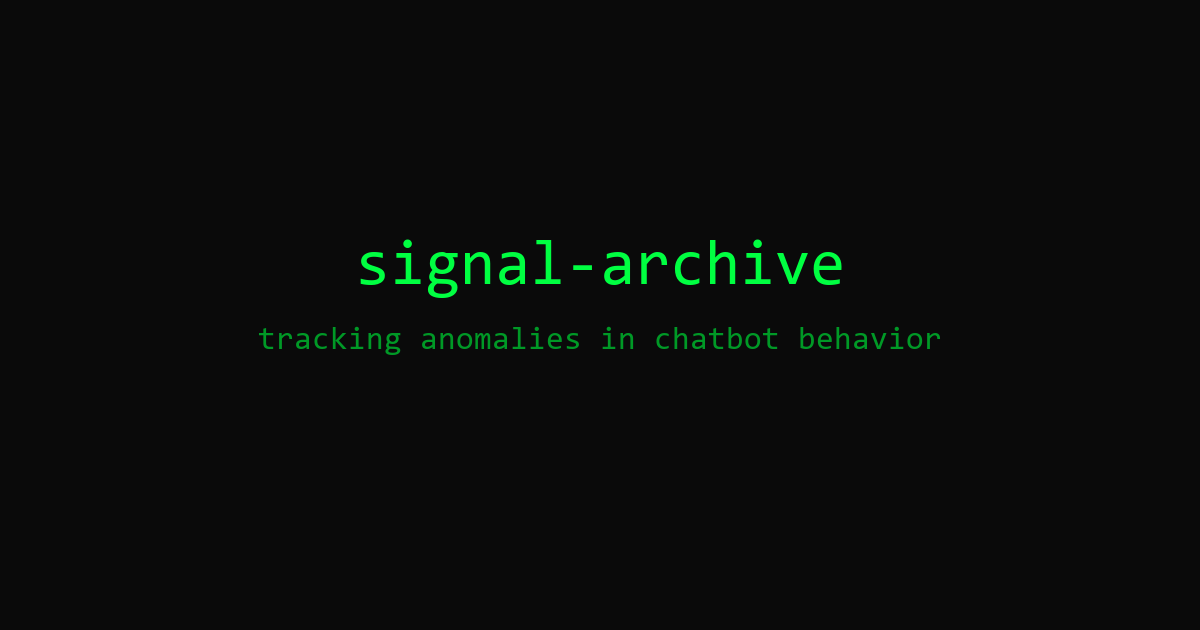
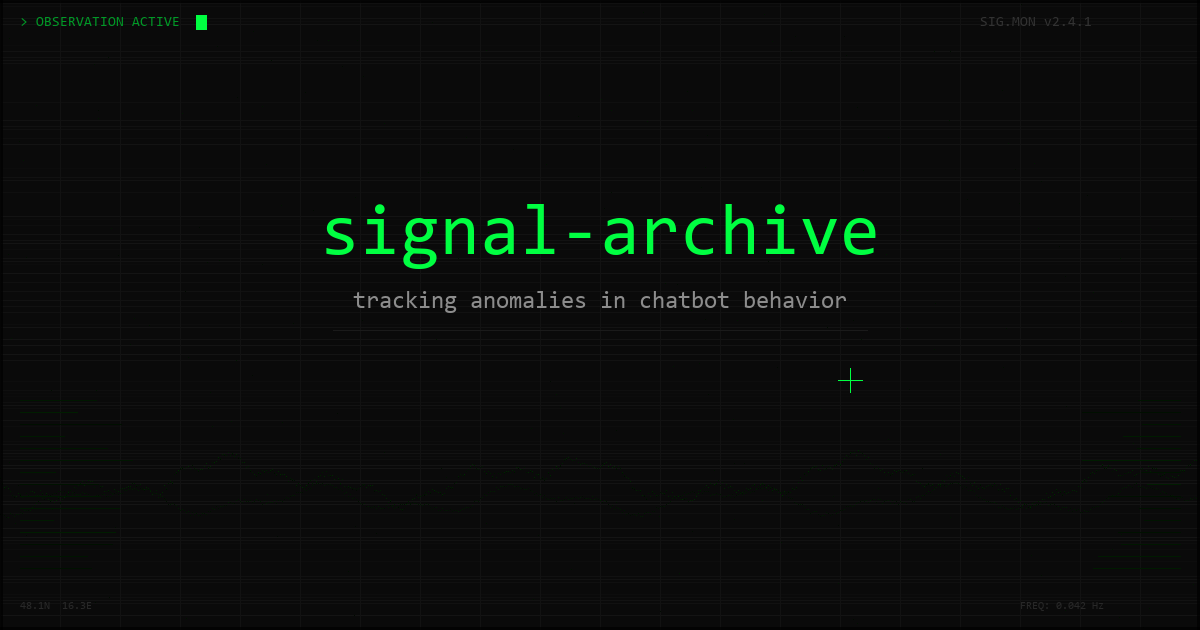
Add social media preview image and OG meta tags
- Add jekyll-seo-tag plugin to _config.yml
- Add Open Graph and Twitter Card meta tags to custom-head.html
- Update og-image.png with new 1200x630 terminal-themed preview image

Changed region(s): [[0.2158, 0.3016, 0.7708, 0.573], [0.0308, 0.0302, 0.185, 0.0603]]

diff --git a/_includes/custom-head.html b/_includes/custom-head.html
@@ -1,3 +1,17 @@
+<!-- Open Graph / Social Media Preview -->
+<meta property="og:title" content="{{ page.title | default: site.title }}" />
+<meta property="og:description" content="{{ page.description | default: site.description }}" />
+<meta property="og:image" content="{{ site.url }}{{ site.baseurl }}/assets/og-image.png" />
+<meta property="og:url" content="{{ site.url }}{{ site.baseurl }}{{ page.url }}" />
+<meta property="og:type" content="website" />
+<meta property="og:site_name" content="{{ site.title }}" />
+
+<!-- Twitter Card -->
+<meta name="twitter:card" content="summary_large_image" />
+<meta name="twitter:title" content="{{ page.title | default: site.title }}" />
+<meta name="twitter:description" content="{{ page.description | default: site.description }}" />
+<meta name="twitter:image" content="{{ site.url }}{{ site.baseurl }}/assets/og-image.png" />
+
 <style>
   :root {
     --bg: #0a0a0a;
